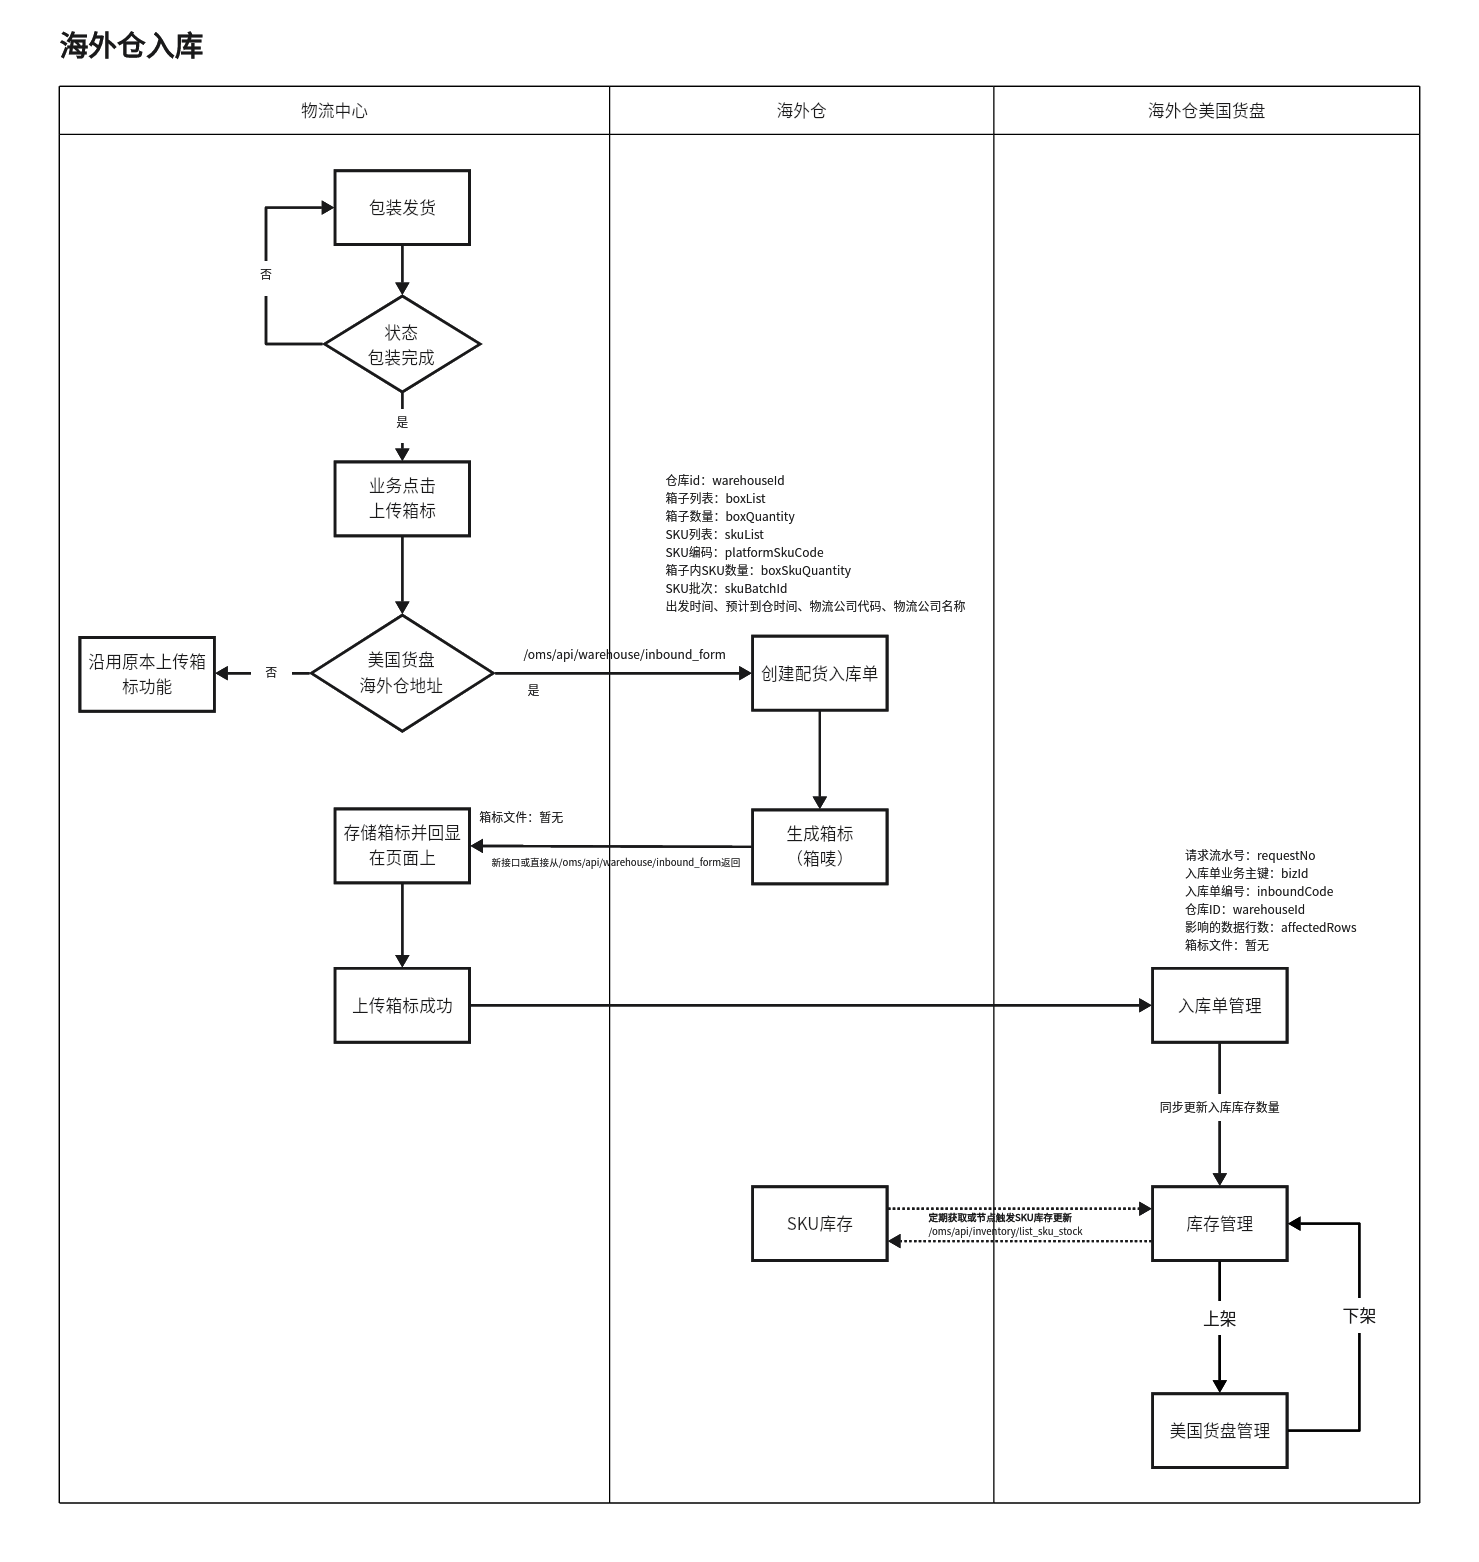
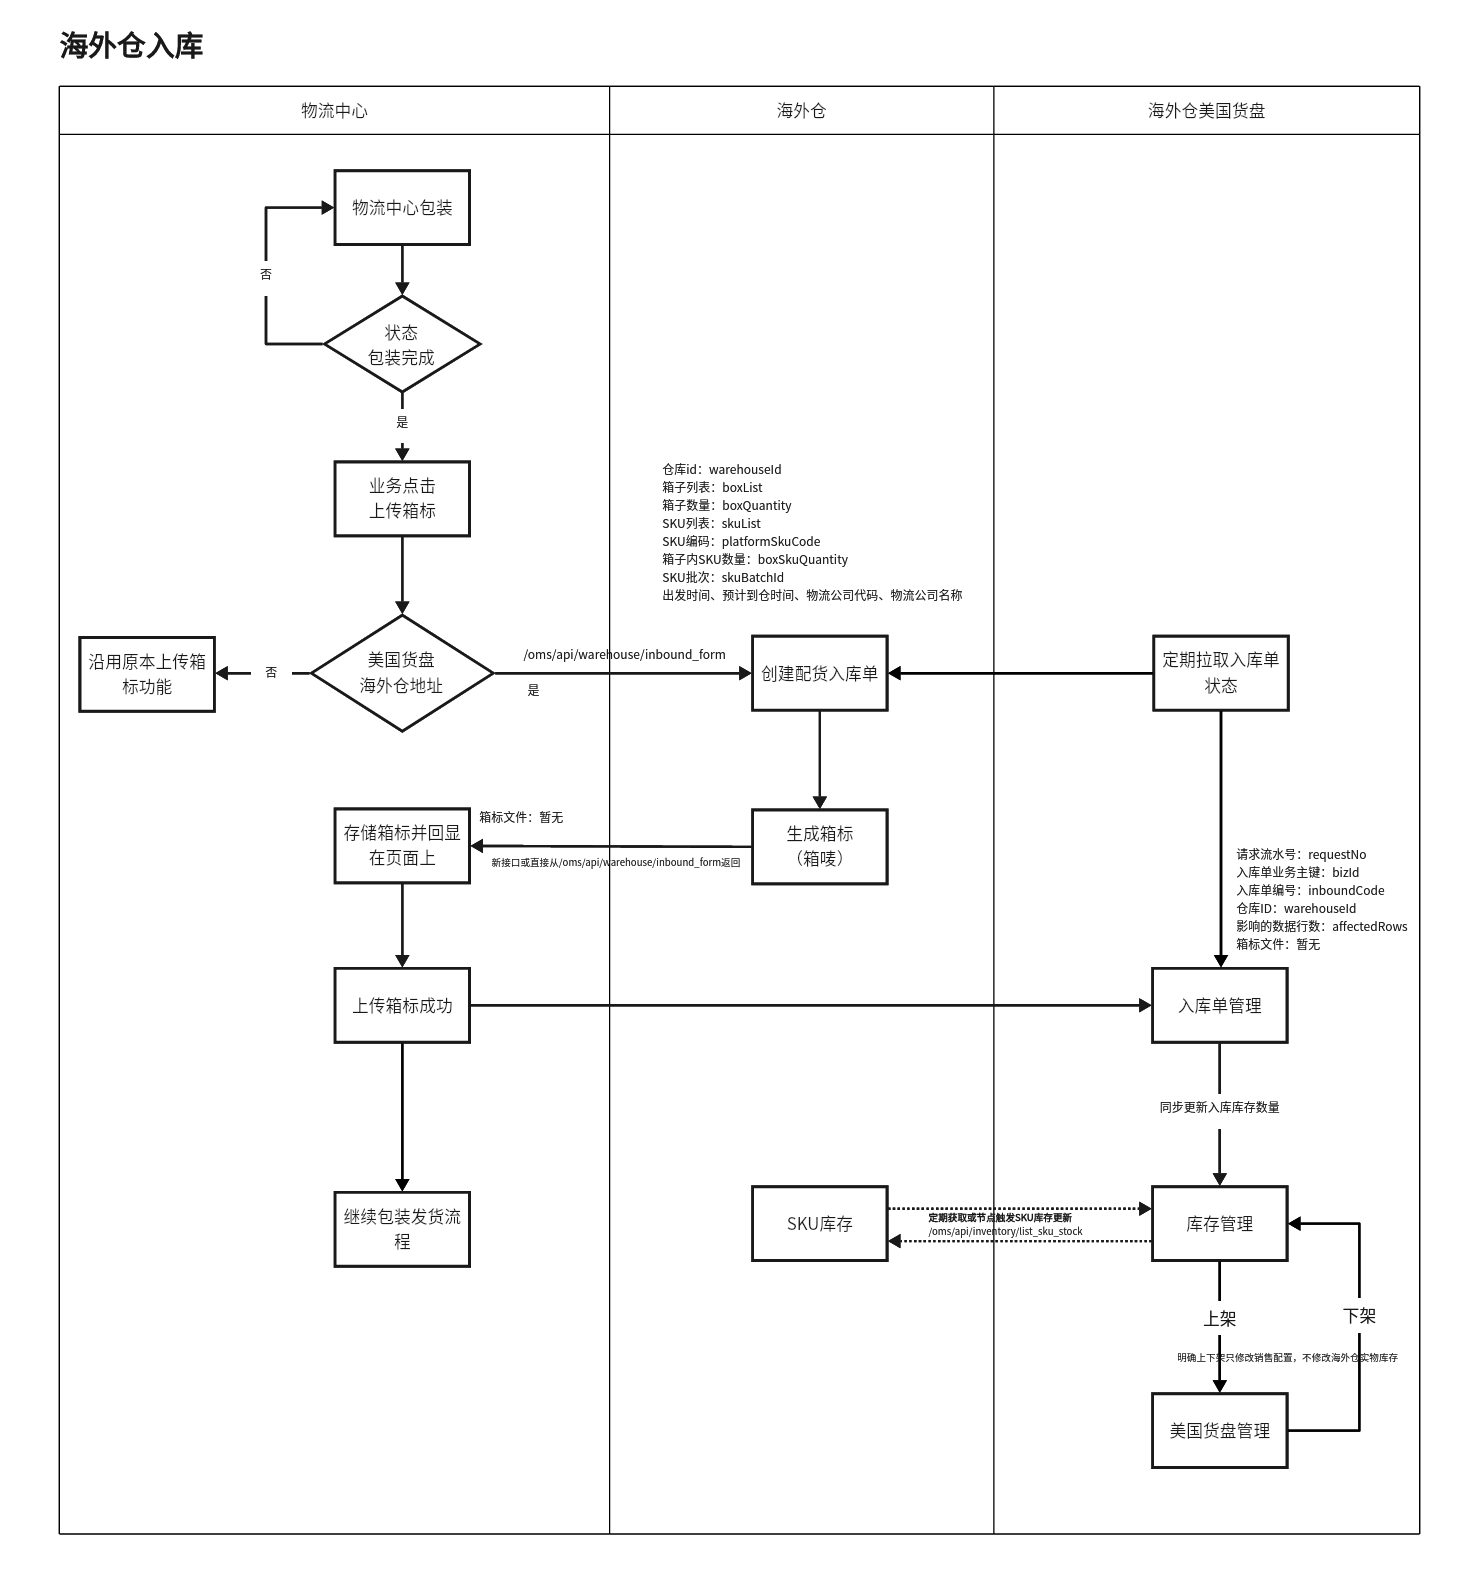
完善业务流程注释图

diff --git a/global-overview.html b/global-overview.html
@@ -24,14 +24,8 @@
       <button class="global-overview-image-trigger" id="global-overview-image-trigger" type="button" data-preview-src="assets/海外仓入库.png" aria-label="放大查看海外仓入库流程图">
         <img src="assets/海外仓入库.png" alt="海外仓入库流程图">
       </button>
-      <button class="global-overview-image-trigger" type="button" data-preview-src="assets/海外仓入库流程解析.png" aria-label="放大查看海外仓入库流程解析">
-        <img src="assets/海外仓入库流程解析.png" alt="海外仓入库流程解析">
-      </button>
       <button class="global-overview-image-trigger" type="button" data-preview-src="assets/平台订单导入.png" aria-label="放大查看平台订单导入流程图">
         <img src="assets/平台订单导入.png" alt="平台订单导入流程图">
-      </button>
-      <button class="global-overview-image-trigger" type="button" data-preview-src="assets/平台订单导入流程解析.png" aria-label="放大查看平台订单导入流程解析">
-        <img src="assets/平台订单导入流程解析.png" alt="平台订单导入流程解析">
       </button>
     </section>
   </main>

diff --git a/notes.js b/notes.js
@@ -84,7 +84,14 @@
     orders:{title:'订单管理注释'},
     'tray-management':{title:'美国货盘管理注释'},
     'packaging-shipping':{title:'包装发货注释'},
-    'global-overview':{title:'业务流程注释'},
+    'global-overview':{
+      title:'业务流程注释',
+      images:[
+        {src:'assets/海外仓入库流程解析.png',alt:'海外仓入库流程解析',caption:'海外仓入库流程解析'},
+        {src:'assets/平台订单导入流程解析.png',alt:'平台订单导入流程解析',caption:'平台订单导入流程解析'},
+        {src:'assets/库存变化规则.png',alt:'库存变化规则',caption:'库存变化规则'}
+      ]
+    },
     login:{title:'登录注释'}
   };
   var note=pageNotes[pageKey]||{title:'当前菜单注释'};
@@ -300,5 +307,5 @@
     applyNotesWidth(parseInt(getComputedStyle(document.documentElement).getPropertyValue('--notes-panel-w'),10)||420,false);
     applyNotesButtonPosition(savedButtonPosition,false);
   });
-  closeNotes();
+  if(pageKey==='global-overview')openNotes();else closeNotes();
 })();
